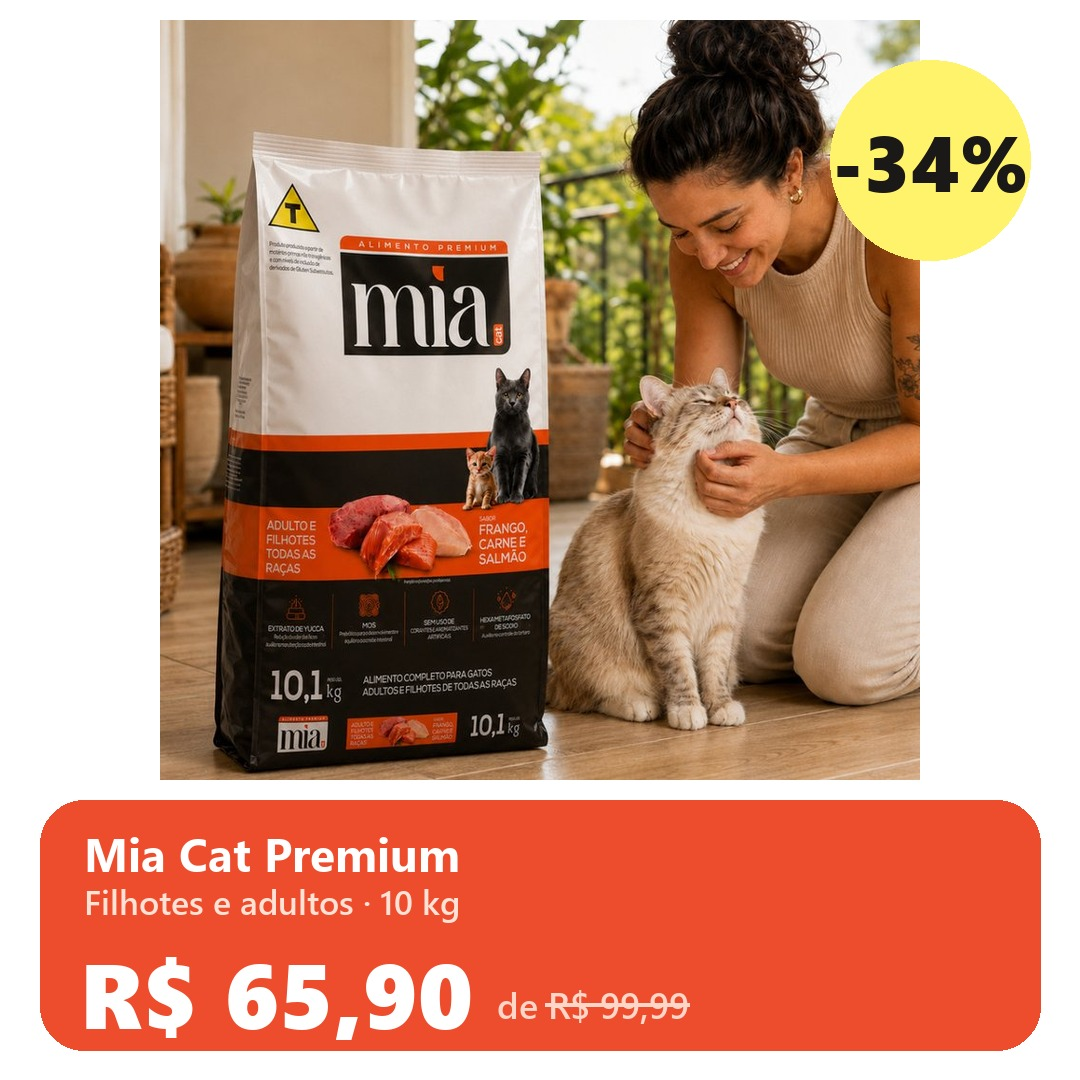
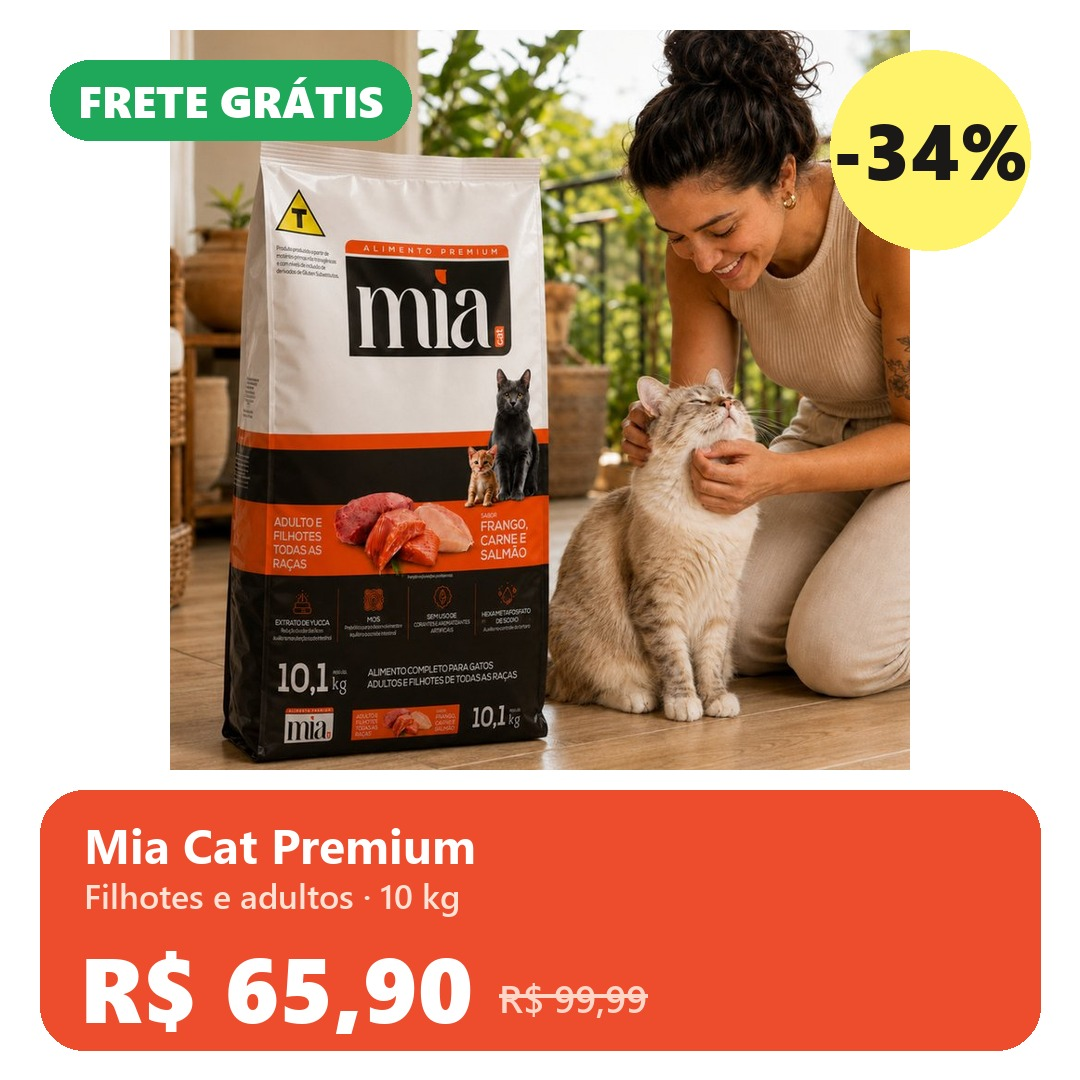
Ofertas so com racoes de 10 kg: 12 racoes com frete gratis ou cupom de frete, filtro e layout centralizado, sem nota; criativos novos

diff --git a/ofertas/index.html b/ofertas/index.html
@@ -4,7 +4,7 @@
 <meta charset="utf-8">
 <title>Ração de 10 kg em oferta · Império Felino</title>
 <meta name="viewport" content="width=device-width, initial-scale=1, viewport-fit=cover">
-<meta name="description" content="Rações de 10 kg para gatos com desconto na Shopee, conferidas pelo Império Felino.">
+<meta name="description" content="Rações de 10 kg para gatos com desconto e frete grátis na Shopee, conferidas pelo Império Felino.">
 <meta name="theme-color" content="#ffffff">
 <meta name="robots" content="noindex">
 <link rel="canonical" href="https://www.imperiofelino.com.br/ofertas/">
@@ -12,9 +12,10 @@
 <link rel="apple-touch-icon" href="../img/apple-touch-icon.png">
 <link rel="preload" href="../fonts/outfit-latin.woff2" as="font" type="font/woff2" crossorigin>
 <link rel="preload" href="../fonts/figtree-latin.woff2" as="font" type="font/woff2" crossorigin>
-<!-- Página dos anúncios (carrossel de rações e Reels). Cada botão leva ao link de afiliado com
-     Sub_id1 "anuncio", Sub_id2 "ofertas" e Sub_id3 = produto, e dispara AddToCart no pixel,
-     que é o evento que a campanha otimiza. ?p=<produto> coloca esse produto em primeiro. -->
+<!-- Página dos anúncios de ração (carrossel e imagem). Só rações de 10 kg.
+     Cada botão leva ao link de afiliado com Sub_id1 "anuncio", Sub_id2 "ofertas" e Sub_id3 = id do produto,
+     e dispara AddToCart no pixel, que é o evento que a campanha otimiza.
+     ?p=<id> coloca esse produto em primeiro; ?origem= vai junto nos eventos do pixel. -->
 <style>
 @font-face{font-family:"Outfit";font-style:normal;font-weight:100 900;font-display:swap;src:url(../fonts/outfit-latin.woff2) format("woff2")}
 @font-face{font-family:"Figtree";font-style:normal;font-weight:300 900;font-display:swap;src:url(../fonts/figtree-latin.woff2) format("woff2")}
@@ -27,115 +28,156 @@
 }
 *{box-sizing:border-box}
 html{-webkit-text-size-adjust:100%}
-body{margin:0;background:var(--bg);color:var(--ink);font:500 16px/1.45 var(--body);-webkit-font-smoothing:antialiased}
+body{margin:0;background:var(--bg);color:var(--ink);font:500 16px/1.45 var(--body);-webkit-font-smoothing:antialiased;text-align:center;
+  background-image:radial-gradient(90% 420px at 50% 0%,#ffe9dc 0%,rgba(255,233,220,0) 100%);background-repeat:no-repeat}
 img{display:block;max-width:100%}
 a{color:inherit;-webkit-tap-highlight-color:transparent;touch-action:manipulation}
+button{font:inherit;color:inherit}
 :focus-visible{outline:3px solid var(--orange);outline-offset:3px;border-radius:12px}
-main{max-width:760px;margin:0 auto;padding:calc(18px + env(safe-area-inset-top)) 16px 28px}
+main{max-width:980px;margin:0 auto;padding:calc(22px + env(safe-area-inset-top)) 16px 28px}
 
-.top{display:flex;align-items:center;gap:10px;margin-bottom:18px;text-decoration:none}
-.top img{width:40px;height:40px;border-radius:50%;object-fit:cover;border:2px solid #fff;box-shadow:0 0 0 2px var(--peach)}
-.top b{font:800 17px/1 var(--display);letter-spacing:-.02em}
-h1{margin:0 0 6px;font:800 clamp(28px,7.4vw,40px)/1.05 var(--display);letter-spacing:-.035em;text-wrap:balance}
-h1 em{font-style:normal;color:var(--orange)}
-.sub{margin:0 0 20px;color:var(--ink-2);font-weight:600;text-wrap:pretty}
-h2{margin:28px 0 10px;font:800 20px/1.2 var(--display);letter-spacing:-.02em}
+/* topo centralizado */
+.brand{display:inline-flex;align-items:center;gap:9px;text-decoration:none;margin-bottom:18px}
+.brand img{width:38px;height:38px;border-radius:50%;object-fit:cover;border:2px solid #fff;box-shadow:0 0 0 2px var(--peach)}
+.brand b{font:800 16px/1 var(--display);letter-spacing:-.02em}
+h1{margin:0 auto 10px;max-width:14em;font:800 clamp(30px,8vw,50px)/1.02 var(--display);letter-spacing:-.04em;text-wrap:balance}
+h1 em{font-style:normal;color:var(--green-deep)}
+.sub{margin:0 auto 18px;max-width:30em;color:var(--ink-2);font-weight:600;text-wrap:balance}
+.facts{display:flex;justify-content:center;margin:0 auto 22px;max-width:520px;padding:12px 6px;border-radius:20px;background:var(--surface);border:1.5px solid var(--line)}
+.facts div{flex:1;min-width:0;padding:0 6px}
+.facts div+div{border-left:1.5px solid var(--line)}
+.facts b{display:block;font:800 clamp(17px,4.6vw,21px)/1.1 var(--display);letter-spacing:-.02em;color:var(--orange-deep)}
+.facts div:nth-child(2) b{color:var(--green-deep)}
+.facts span{display:block;margin-top:3px;font:600 12px/1.25 var(--body);color:var(--muted)}
 
-.list{list-style:none;margin:0;padding:0;display:grid;gap:10px}
-@media (min-width:700px){.list{grid-template-columns:1fr 1fr}}
-.item{display:flex;gap:12px;padding:10px;border-radius:20px;background:var(--surface);border:1.5px solid var(--line);box-shadow:0 10px 20px -18px rgba(120,60,30,.5)}
-.item.first{border-color:#f7b29f;box-shadow:0 0 0 3px var(--orange-soft),0 12px 24px -18px rgba(120,60,30,.6)}
-.ph{position:relative;flex:none;width:112px;height:112px;border-radius:14px;overflow:hidden;background:#f5f1ec}
+/* filtro */
+.tabs{display:inline-flex;gap:4px;padding:4px;margin:0 auto 16px;border-radius:16px;background:#f1ece7;max-width:100%;overflow-x:auto;scrollbar-width:none}
+.tabs::-webkit-scrollbar{display:none}
+.tabs button{flex:none;border:0;background:transparent;cursor:pointer;padding:9px 11px;border-radius:12px;font:700 13.5px/1 var(--body);color:var(--ink-2);transition:background .15s var(--ease),color .15s var(--ease)}
+.tabs button[aria-pressed="true"]{background:var(--surface);color:var(--ink);box-shadow:0 2px 6px -2px rgba(27,25,23,.18)}
+
+/* cards */
+.grid{list-style:none;margin:0;padding:0;display:grid;grid-template-columns:repeat(2,minmax(0,1fr));gap:10px;text-align:center}
+@media (min-width:720px){.grid{grid-template-columns:repeat(3,minmax(0,1fr));gap:14px}}
+@media (min-width:960px){.grid{grid-template-columns:repeat(4,minmax(0,1fr))}}
+.card{display:flex;flex-direction:column;align-items:center;padding:8px 8px 10px;border-radius:22px;background:var(--surface);border:1.5px solid var(--line);box-shadow:0 14px 24px -22px rgba(120,60,30,.55)}
+.card.first{border-color:#f7b29f;box-shadow:0 0 0 3px var(--orange-soft),0 14px 24px -20px rgba(120,60,30,.6)}
+.card[hidden]{display:none}
+.ph{position:relative;width:100%;aspect-ratio:1;border-radius:16px;overflow:hidden;background:#f5f1ec;margin-bottom:9px}
 .ph img{width:100%;height:100%;object-fit:cover}
-.ph em{position:absolute;left:6px;top:6px;font:800 12px/1 var(--display);font-style:normal;color:#fff;background:var(--orange);padding:4px 7px;border-radius:8px}
-.info{flex:1;min-width:0;display:flex;flex-direction:column;gap:3px}
-.info h3{margin:0;font:700 15px/1.25 var(--body);color:var(--ink);display:-webkit-box;-webkit-line-clamp:2;-webkit-box-orient:vertical;overflow:hidden}
-.rate{font:600 12.5px/1.2 var(--body);color:var(--muted)}
-.rate b{color:#e8a200}
-.price{display:flex;align-items:baseline;gap:7px;flex-wrap:wrap;margin-top:1px}
-.price b{font:800 21px/1 var(--display);color:var(--orange-deep);letter-spacing:-.02em}
-.price s{font:700 12.5px/1 var(--body);color:#8a8079;text-decoration-color:var(--orange)}
-.price small{font:600 12px/1 var(--body);color:var(--muted)}
-.btn{margin-top:auto;display:flex;align-items:center;justify-content:center;gap:6px;min-height:42px;padding:0 14px;border-radius:14px;
+.ph em{position:absolute;left:7px;top:7px;font:800 13px/1 var(--display);font-style:normal;color:#fff;background:var(--orange);padding:5px 8px;border-radius:9px}
+.card h3{margin:0 2px 8px;min-height:2.5em;font:700 14px/1.25 var(--body);display:-webkit-box;-webkit-line-clamp:2;-webkit-box-orient:vertical;overflow:hidden;text-wrap:balance}
+.price{display:flex;flex-direction:column;align-items:center;gap:2px;margin-bottom:6px}
+.price s{font:700 12px/1 var(--body);color:#8a8079;text-decoration-color:var(--orange)}
+.price b{font:800 clamp(20px,5.6vw,24px)/1 var(--display);color:var(--orange-deep);letter-spacing:-.03em}
+.ship{display:inline-flex;align-items:center;justify-content:center;gap:5px;min-height:24px;margin-bottom:9px;padding:0 6px;font:700 12px/1.15 var(--body);color:var(--muted)}
+.ship svg{flex:none;width:16px;height:16px;fill:none;stroke:currentColor;stroke-width:2;stroke-linecap:round;stroke-linejoin:round}
+.ship.gratis{color:var(--green-deep)}
+.btn{margin-top:auto;display:flex;align-items:center;justify-content:center;width:100%;min-height:44px;padding:0 10px;border-radius:14px;
   background:var(--orange);color:#fff;text-decoration:none;font:800 15px/1 var(--display);letter-spacing:-.01em;transition:background .15s var(--ease),transform .15s var(--ease)}
 .btn:active{transform:scale(.97)}
 @media (hover:hover){.btn:hover{background:var(--orange-deep)}}
-.btn svg{width:16px;height:16px;fill:none;stroke:currentColor;stroke-width:2.6;stroke-linecap:round;stroke-linejoin:round}
 
-.note{margin:16px 0 0;font:600 12.5px/1.4 var(--body);color:var(--muted)}
-.grupo{margin:26px 0 0;display:flex;align-items:center;gap:12px;padding:14px;border-radius:20px;background:var(--green-soft);border:1.5px solid #bfe8cf;text-decoration:none}
-.grupo p{margin:0;flex:1;font:600 14px/1.35 var(--body);color:var(--ink-2)}
-.grupo p b{display:block;font:800 16px/1.2 var(--display);color:var(--green-deep)}
-.grupo span{flex:none;padding:10px 14px;border-radius:12px;background:var(--green);color:#fff;font:800 14px/1 var(--display)}
-footer{max-width:760px;margin:0 auto;padding:0 16px calc(20px + env(safe-area-inset-bottom));font:600 12px/1.4 var(--body);color:var(--muted)}
+.note{margin:18px auto 0;max-width:36em;font:600 12.5px/1.45 var(--body);color:var(--muted);text-wrap:pretty}
+.grupo{display:flex;flex-direction:column;align-items:center;gap:10px;max-width:520px;margin:26px auto 0;padding:18px 16px;border-radius:22px;background:var(--green-soft);border:1.5px solid #bfe8cf}
+.grupo p{margin:0;font:600 14.5px/1.35 var(--body);color:var(--ink-2)}
+.grupo p b{display:block;margin-bottom:2px;font:800 18px/1.2 var(--display);color:var(--green-deep);letter-spacing:-.01em}
+.grupo a{display:inline-flex;align-items:center;justify-content:center;min-height:44px;padding:0 20px;border-radius:14px;background:var(--green);color:#fff;text-decoration:none;font:800 15px/1 var(--display)}
+@media (hover:hover){.grupo a:hover{background:var(--green-deep)}}
+footer{max-width:980px;margin:0 auto;padding:0 16px calc(20px + env(safe-area-inset-bottom));font:600 12px/1.4 var(--body);color:var(--muted);text-align:center}
 footer a{color:var(--muted);font-weight:700}
 @media (prefers-reduced-motion:reduce){*{transition:none!important}}
 </style>
 </head>
 <body>
+
+<svg width="0" height="0" style="position:absolute" aria-hidden="true">
+  <symbol id="i-truck" viewBox="0 0 24 24"><path d="M14 18V6a2 2 0 0 0-2-2H4a2 2 0 0 0-2 2v11a1 1 0 0 0 1 1h2M15 18H9M19 18h2a1 1 0 0 0 1-1v-3.65a1 1 0 0 0-.22-.62l-3.48-4.35A1 1 0 0 0 17.52 8H14"/><circle cx="17" cy="18" r="2"/><circle cx="7" cy="18" r="2"/></symbol>
+  <symbol id="i-ticket" viewBox="0 0 24 24"><path d="M2 9a3 3 0 0 1 0 6v2a2 2 0 0 0 2 2h16a2 2 0 0 0 2-2v-2a3 3 0 0 1 0-6V7a2 2 0 0 0-2-2H4a2 2 0 0 0-2 2Z"/><path d="M13 5v2M13 17v2M13 11v2"/></symbol>
+</svg>
+
 <main>
-  <a class="top" href="../"><img src="../img/avatar.jpg" alt="" width="80" height="80"><b>Império Felino</b></a>
-  <h1>Ração de 10 kg <em>com desconto</em> para o seu gato</h1>
-  <p class="sub">Separamos as rações com melhor avaliação e o maior desconto do dia na Shopee.</p>
+  <a class="brand" href="../"><img src="../img/avatar.jpg" alt="" width="80" height="80"><b>Império Felino</b></a>
+  <h1>Ração de 10 kg com <em>frete grátis</em> e desconto</h1>
+  <p class="sub">Economize na ração do seu gato: separamos as rações de 10 kg com o menor preço que encontramos hoje na Shopee.</p>
 
-  <ul class="list" id="racoes"></ul>
+  <div class="facts">
+    <div><b>Até 50% OFF</b><span>no preço da Shopee</span></div>
+    <div><b>Frete grátis</b><span>ou até R$ 40 OFF no frete</span></div>
+    <div><b>10 kg</b><span>castrados e adultos</span></div>
+  </div>
 
-  <h2>Também em oferta</h2>
-  <ul class="list" id="outros"></ul>
+  <div class="tabs" role="group" aria-label="Filtrar rações">
+    <button type="button" data-f="todas" aria-pressed="true">Todas</button>
+    <button type="button" data-f="gratis" aria-pressed="false">Frete grátis</button>
+    <button type="button" data-f="castrados" aria-pressed="false">Castrados</button>
+    <button type="button" data-f="adultos" aria-pressed="false">Adultos</button>
+  </div>
 
-  <p class="note">Preços conferidos em <span id="em"></span>. Eles mudam rápido: o valor final aparece na Shopee. Se você comprar pelo link, o Império Felino pode receber uma comissão, sem custo extra para você.</p>
+  <ul class="grid" id="lista"></ul>
 
-  <a class="grupo" href="../grupo/?origem=ofertas">
-    <p><b>Quer saber quando o preço cai?</b>As ofertas chegam primeiro no grupo do WhatsApp.</p>
-    <span>Entrar no grupo</span>
-  </a>
+  <p class="note">Preços e frete conferidos em <span id="em"></span>. Eles mudam rápido: o valor final aparece na Shopee. O desconto no frete usa o cupom de frete da própria Shopee. Se você comprar pelo link, o Império Felino pode receber uma comissão, sem custo extra para você.</p>
+
+  <div class="grupo">
+    <p><b>Quer saber quando o preço cai?</b>As ofertas de ração chegam primeiro no grupo do WhatsApp.</p>
+    <a href="../grupo/?origem=ofertas">Entrar no grupo</a>
+  </div>
 </main>
 <footer>© <span id="ano">2026</span> Império Felino · Usamos cookies para medir anúncios · <a href="../privacidade/">Privacidade</a></footer>
 
 <script>
 // Links de afiliado da conta imperiofelinoloja (an_18332531179), gerados no painel em 24/10/2026
 // com Sub_id1 "anuncio", Sub_id2 "ofertas" e Sub_id3 = id abaixo.
+// frete: "gratis" = frete grátis na Shopee; "cupom" = cupom de até R$ 40 de desconto no frete.
 var PRECOS_EM = "24/10/2026";
 var RACOES = [
-  { id:"quatreesupreme", img:"../img/p59.jpg", nome:"Ração Quatree Supreme gatos castrados frango e batata-doce, 10 kg", link:"https://s.shopee.com.br/2qVaghZm4F", preco:194.90, de:259.90, estrelas:4.9, avaliacoes:"1,7 mil" },
-  { id:"granplus",       img:"../img/p57.jpg", nome:"Ração GranPlus Choice gatos adultos frango e carne, 10,1 kg",       link:"https://s.shopee.com.br/9Kj4QeOITu", preco:126.90, de:169.90, estrelas:4.9, avaliacoes:"6,3 mil" },
-  { id:"quatreelife",    img:"../img/p64.jpg", nome:"Ração Quatree Life gatos castrados salmão, 10 kg",                  link:"https://s.shopee.com.br/6L5Sr8mqcU", preco:164.90, de:239.90, estrelas:4.9, avaliacoes:"1,2 mil" },
-  { id:"goldenformula",  img:"../img/p62.jpg", nome:"Ração Golden Fórmula gatos castrados salmão, 10,1 kg",              link:"https://s.shopee.com.br/113wVLG5bi", preco:147.16, de:239.30, estrelas:4.9, avaliacoes:"4,5 mil" },
-  { id:"quatreegourmet", img:"../img/p56.jpg", nome:"Ração Quatree Gourmet gatos adultos, 10,1 kg",                      link:"https://s.shopee.com.br/906E22yh9K", preco:125.85, de:219.90, estrelas:4.9, avaliacoes:"7,8 mil" },
-  { id:"kin",            img:"../img/p65.jpg", nome:"Ração Kin Premium gatos castrados, 10,1 kg",                        link:"https://s.shopee.com.br/7puGdugwLH", preco:69.99,  de:140.00, estrelas:4.9, avaliacoes:"298" },
-  { id:"miacat",         img:"../img/p60.jpg", nome:"Ração Mia Cat Premium filhotes e adultos, 10 kg",                   link:"https://s.shopee.com.br/4fxEs61nM7", preco:65.90,  de:99.99,  estrelas:4.9, avaliacoes:"7 mil" }
-];
-// Produtos dos Reels que viram anúncio
-var OUTROS = [
-  { id:"pelucia",   img:"../img/p43.jpg", nome:"Pelúcia com batimento de coração que acalma o pet", link:"https://s.shopee.com.br/7faqRc3ZeC", preco:82.15, de:149.07, estrelas:5.0, avaliacoes:"7" },
-  { id:"mochila",   img:"../img/p46.jpg", nome:"Mochila bolsa-colete para passear com o gato",      link:"https://s.shopee.com.br/8V9xR9DSiD", preco:45.99, estrelas:4.9, avaliacoes:"441" },
-  { id:"bebedouro", img:"../img/p12.jpg", nome:"Dispensador de água automático para gatos",          link:"https://s.shopee.com.br/1Lgmtys58N", preco:34.69, de:50.86, aPartir:true, estrelas:4.4, avaliacoes:"14" }
+  { id:"miacat",         tipo:"adultos",   img:"../img/p60.jpg", nome:"Mia Cat Premium filhotes e adultos, 10 kg",         link:"https://s.shopee.com.br/4fxEs61nM7", preco:65.90,  de:99.99,  frete:"gratis" },
+  { id:"kin",            tipo:"castrados", img:"../img/p65.jpg", nome:"Kin Premium gatos castrados, 10,1 kg",              link:"https://s.shopee.com.br/7puGdugwLH", preco:69.99,  de:140.00, frete:"cupom" },
+  { id:"nutrican",       tipo:"adultos",   img:"../img/p69.jpg", nome:"Nutrican Premium gatos adultos carne e frango, 10 kg", link:"https://s.shopee.com.br/1W0D7O3N3Y", preco:71.49,  de:99.99,  frete:"gratis" },
+  { id:"quatreecarne",   tipo:"adultos",   img:"../img/p70.jpg", nome:"Quatree gatos adultos carne, 10 kg",                link:"https://s.shopee.com.br/60ScTezZnl", preco:121.90, de:174.90, frete:"cupom" },
+  { id:"quatreegourmet", tipo:"adultos",   img:"../img/p56.jpg", nome:"Quatree Gourmet gatos adultos, 10,1 kg",            link:"https://s.shopee.com.br/906E22yh9K", preco:125.85, de:219.90, frete:"cupom" },
+  { id:"specialcat",     tipo:"castrados", img:"../img/p58.jpg", nome:"Special Cat gatos castrados, 10,1 kg",              link:"https://s.shopee.com.br/3LRrIlizjQ", preco:125.90, de:230.00, frete:"gratis" },
+  { id:"granplus",       tipo:"adultos",   img:"../img/p57.jpg", nome:"GranPlus Choice gatos adultos frango e carne, 10,1 kg", link:"https://s.shopee.com.br/9Kj4QeOITu", preco:126.90, de:169.90, frete:"cupom" },
+  { id:"goldencastrado", tipo:"castrados", img:"../img/p71.jpg", nome:"Golden gatos castrados frango e carne, 10 kg",       link:"https://s.shopee.com.br/4VdoguIYQi", preco:139.90, de:219.90, frete:"cupom" },
+  { id:"goldenformula",  tipo:"castrados", img:"../img/p62.jpg", nome:"Golden Fórmula gatos castrados salmão, 10,1 kg",     link:"https://s.shopee.com.br/113wVLG5bi", preco:154.90, de:239.30, frete:"cupom" },
+  { id:"quatreelife",    tipo:"castrados", img:"../img/p64.jpg", nome:"Quatree Life gatos castrados salmão, 10 kg",        link:"https://s.shopee.com.br/6L5Sr8mqcU", preco:164.90, de:239.90, frete:"cupom" },
+  { id:"goldenselecao",  tipo:"castrados", img:"../img/p72.jpg", nome:"Golden Seleção Natural gatos castrados, 10 kg",     link:"https://s.shopee.com.br/9APeFUDqkN", preco:169.90, de:299.90, frete:"cupom" },
+  { id:"quatreesupreme", tipo:"castrados", img:"../img/p59.jpg", nome:"Quatree Supreme gatos castrados frango e batata-doce, 10 kg", link:"https://s.shopee.com.br/2qVaghZm4F", preco:194.90, de:259.90, frete:"cupom" }
 ];
 var META_PIXEL_ID = "1279419466725271";
 
 var Q = new URLSearchParams(location.search);
 var PRIMEIRO = Q.get("p"), ORIGEM = Q.get("origem") || "direto";
 var brl = function (v) { return "R$ " + v.toFixed(2).replace(".", ","); };
-var seta = '<svg viewBox="0 0 24 24" aria-hidden="true"><path d="M5 12h14M13 6l6 6-6 6"/></svg>';
 
-function monta(lista, alvo) {
-  var l = lista.slice();
-  var i = l.findIndex(function (p) { return p.id === PRIMEIRO; });
-  if (i > 0) l.unshift(l.splice(i, 1)[0]);
-  document.getElementById(alvo).innerHTML = l.map(function (p) {
-    var desc = p.de && p.de > p.preco ? Math.round((1 - p.preco / p.de) * 100) : 0;
-    return '<li class="item' + (p.id === PRIMEIRO ? ' first' : '') + '">' +
-      '<div class="ph"><img src="' + p.img + '" alt="" width="224" height="224" loading="lazy">' + (desc ? '<em>-' + desc + '%</em>' : '') + '</div>' +
-      '<div class="info"><h3>' + p.nome + '</h3>' +
-      '<span class="rate"><b>★</b> ' + p.estrelas.toFixed(1).replace(".", ",") + ' · ' + p.avaliacoes + ' avaliações</span>' +
-      '<span class="price">' + (p.aPartir ? '<small>a partir de</small>' : '') + '<b>' + brl(p.preco) + '</b>' + (desc ? '<s>' + brl(p.de) + '</s>' : '') + '</span>' +
-      '<a class="btn" href="' + p.link + '" data-id="' + p.id + '" data-preco="' + p.preco + '" rel="noopener sponsored">Ver na Shopee' + seta + '</a></div></li>';
-  }).join("");
-}
-monta(RACOES, "racoes");
-monta(OUTROS, "outros");
+var lista = RACOES.slice();
+var i = lista.findIndex(function (p) { return p.id === PRIMEIRO; });
+if (i > 0) lista.unshift(lista.splice(i, 1)[0]);
+document.getElementById("lista").innerHTML = lista.map(function (p) {
+  var desc = p.de && p.de > p.preco ? Math.round((1 - p.preco / p.de) * 100) : 0;
+  var ship = p.frete === "gratis"
+    ? '<span class="ship gratis"><svg aria-hidden="true"><use href="#i-truck"/></svg>Frete grátis</span>'
+    : '<span class="ship"><svg aria-hidden="true"><use href="#i-ticket"/></svg>Até R$ 40 OFF no frete</span>';
+  return '<li class="card' + (p.id === PRIMEIRO ? ' first' : '') + '" data-tipo="' + p.tipo + '" data-frete="' + p.frete + '">' +
+    '<div class="ph"><img src="' + p.img + '" alt="" width="400" height="400" loading="lazy">' + (desc ? '<em>-' + desc + '%</em>' : '') + '</div>' +
+    '<h3>' + p.nome + '</h3>' +
+    '<span class="price">' + (desc ? '<s>' + brl(p.de) + '</s>' : '') + '<b>' + brl(p.preco) + '</b></span>' + ship +
+    '<a class="btn" href="' + p.link + '" data-id="' + p.id + '" data-preco="' + p.preco + '" rel="noopener sponsored">Ver na Shopee</a></li>';
+}).join("");
 document.getElementById("em").textContent = PRECOS_EM;
 document.getElementById("ano").textContent = new Date().getFullYear();
+
+// Filtro: Todas / Frete grátis / Castrados / Adultos
+var botoes = document.querySelectorAll(".tabs button");
+botoes.forEach(function (b) {
+  b.addEventListener("click", function () {
+    var f = b.dataset.f;
+    botoes.forEach(function (x) { x.setAttribute("aria-pressed", x === b ? "true" : "false"); });
+    document.querySelectorAll(".card").forEach(function (c) {
+      c.hidden = !(f === "todas" || (f === "gratis" ? c.dataset.frete === "gratis" : c.dataset.tipo === f));
+    });
+  });
+});
 
 if (META_PIXEL_ID) {
   !function (f, b, e, v, n, t, s) { if (f.fbq) return; n = f.fbq = function () { n.callMethod ? n.callMethod.apply(n, arguments) : n.queue.push(arguments); };
@@ -143,10 +185,10 @@ if (META_PIXEL_ID) {
     s = b.getElementsByTagName(e)[0]; s.parentNode.insertBefore(t, s); }(window, document, "script", "https://connect.facebook.net/en_US/fbevents.js");
   fbq("init", META_PIXEL_ID);
   fbq("track", "PageView");
-  fbq("track", "ViewContent", { content_name: "Ofertas", origem: ORIGEM });
+  fbq("track", "ViewContent", { content_name: "Ofertas de ração", origem: ORIGEM });
 }
 
-// Botão "Ver na Shopee": registra AddToCart (o evento da campanha) e só então abre a Shopee (no máximo 400 ms de espera)
+// "Ver na Shopee": registra AddToCart (o evento da campanha) e só então abre a Shopee (no máximo 400 ms de espera)
 document.addEventListener("click", function (e) {
   var a = e.target.closest && e.target.closest("a.btn");
   if (!a || e.button !== 0 || e.metaKey || e.ctrlKey || e.shiftKey) return;
